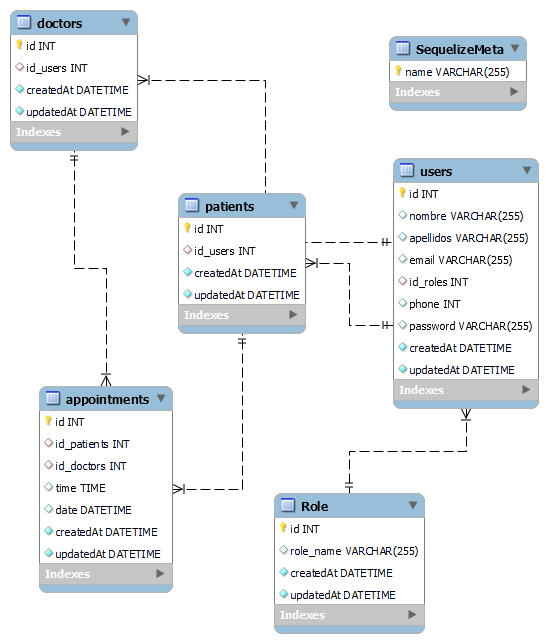
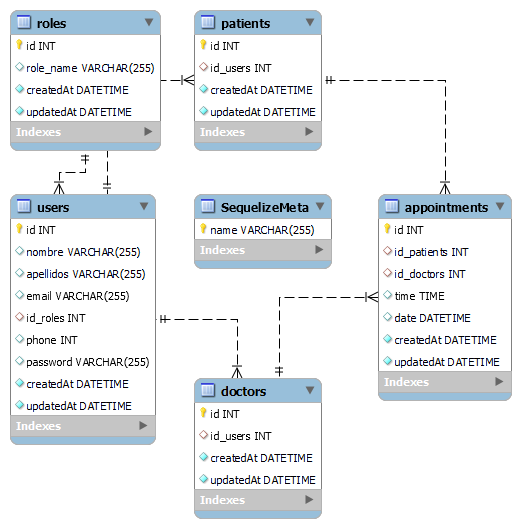
deleting and re-creating the data base

diff --git a/migrations/01-roles.js b/migrations/01-roles.js
@@ -2,7 +2,7 @@
 /** @type {import('sequelize-cli').Migration} */
 module.exports = {
   async up(queryInterface, Sequelize) {
-    await queryInterface.createTable('role', {
+    await queryInterface.createTable('roles', {
       id: {
         allowNull: false,
         autoIncrement: true,
@@ -23,6 +23,6 @@ module.exports = {
     });
   },
   async down(queryInterface, Sequelize) {
-    await queryInterface.dropTable('role');
+    await queryInterface.dropTable('roles');
   }
 };

diff --git a/migrations/05-appointments.js b/migrations/05-appointments.js
@@ -12,14 +12,14 @@ module.exports = {
         id_patients: {
           type: Sequelize.INTEGER,
           references: {
-            model: "Doctor",
+            model: "doctors",
             key: "id",
           },
         },
         id_doctors: {
           type: Sequelize.INTEGER,
           references: {
-            model: "Patient",
+            model: "patients",
             key: "id",
           },
       },

diff --git a/migrations/02-users.js b/migrations/02-users.js
@@ -22,7 +22,7 @@ module.exports = {
       id_roles: {
         type: Sequelize.INTEGER,
         references: {
-          model: "Role",
+          model: "roles",
           key: "id"
         }       
       },

diff --git a/migrations/04-patients.js b/migrations/04-patients.js
@@ -12,7 +12,7 @@ module.exports = {
       id_users: {
         type: Sequelize.INTEGER,
         references:{
-          model: "User",
+          model: "users",
           key: "id"
         }
       },
